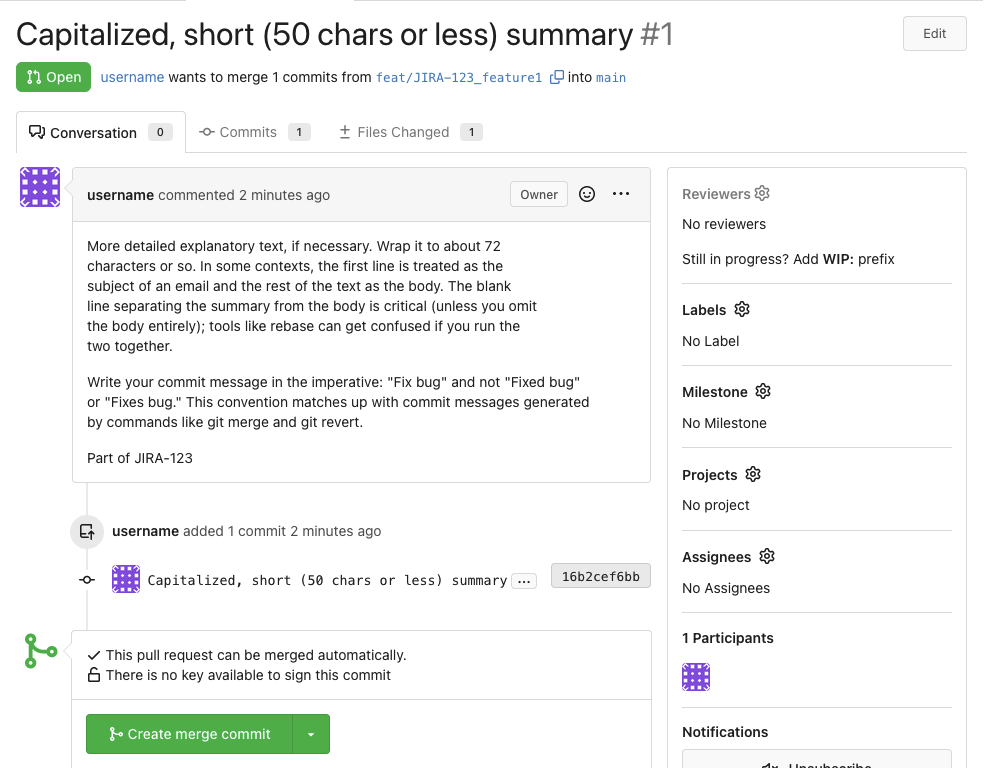
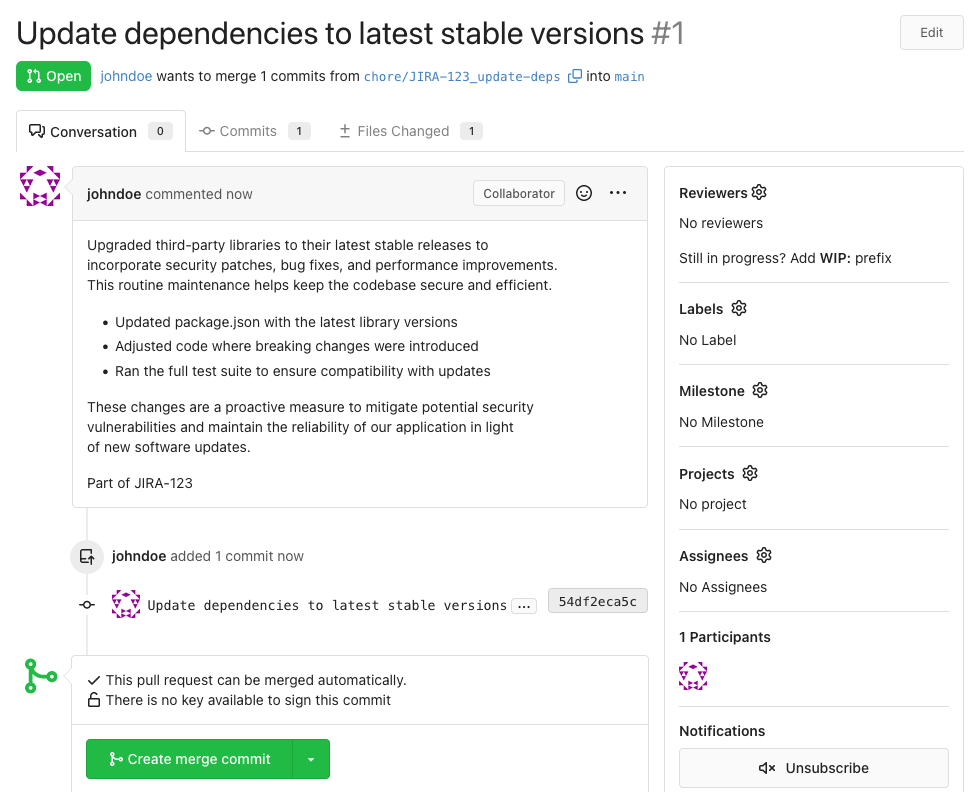
Update assets for create the pull request section
The demo video for this section was updated to better reflect the
output of a branch being pushed.

This then required updating screenshots for the open pull request and
the created pull request. Positional changes to the location of
specific elements required text and arrow overlays to be shifted.

diff --git a/pages/create-the-pull-request.md b/pages/create-the-pull-request.md
@@ -117,24 +117,24 @@ git push
 
 Check the output for errors and open the link provided.
 
-```text
+```git
 Enumerating objects: 5, done.
 Counting objects: 100% (5/5), done.
 Compressing objects: 100% (3/3), done.
-Writing objects: 100% (3/3), 690 bytes | 345.00 KiB/s, done.
+Writing objects: 100% (3/3), 683 bytes | 683.00 KiB/s, done.
 Total 3 (delta 1), reused 0 (delta 0), pack-reused 0
 remote:
-remote: Create a new pull request for 'feat/JIRA-123_feature1':
-remote:   http://server/username/repository/compare/main...feat/JIRA-123_feature1
+remote: Create a new pull request for 'chore/JIRA-123_update-deps':
+remote:   http://server/company/repository/compare/main...chore/JIRA-123_update-deps
 remote:
-To http://server:3000/username/repository.git
- * [new branch]      feat/JIRA-123_feature1 -> feat/JIRA-123_feature1
-branch 'feat/JIRA-123_feature1' set up to track 'origin/feat/JIRA-123_feature1'.
+To http://server/company/repository.git
+ * [new branch]      chore/JIRA-123_update-deps -> chore/JIRA-123_update-deps
+branch 'chore/JIRA-123_update-deps' set up to track 'origin/chore/JIRA-123_update-deps'.
 ```
 
-<Arrow x1="710" y1="420" x2="660" y2="420" color="green"/>
+<Arrow x1="730" y1="420" x2="680" y2="420" color="green"/>
 
-<div class="absolute right-170px bottom-120px">Open link</div>
+<div class="absolute right-150px bottom-120px">Open link</div>
 
 </v-click>
 
@@ -157,21 +157,21 @@ transition: fade-out
 
 <img src="/images/server-pull-request-open.png" class="rounded" width="400" />
 
-<Arrow x1="270" y1="110" x2="320" y2="110" color="green"/>
+<Arrow x1="270" y1="95" x2="320" y2="95" color="green"/>
 
-<div class="absolute left-160px top-95px text-right">
+<div class="absolute left-160px top-80px text-right">
 Prefilled title
 </div>
 
-<Arrow x1="270" y1="220" x2="320" y2="220" color="green"/>
+<Arrow x1="270" y1="210" x2="320" y2="210" color="green"/>
 
-<div class="absolute left-100px top-205px text-right">
+<div class="absolute left-100px top-195px text-right">
 Prefilled description
 </div>
 
-<Arrow x1="725" y1="310" x2="560" y2="310" color="green"/>
+<Arrow x1="725" y1="300" x2="560" y2="300" color="green"/>
 
-<div class="absolute right-90px top-295px">
+<div class="absolute right-90px top-285px">
 Create pull request
 </div>
 
@@ -192,4 +192,4 @@ default reviewers or add them when running the pull request check.
 layout: center
 ---
 
-<img src="/images/server-pull-request-create.png" class="rounded" width="620" />
+<img src="/images/server-pull-request-create.png" class="rounded" width="640" />
